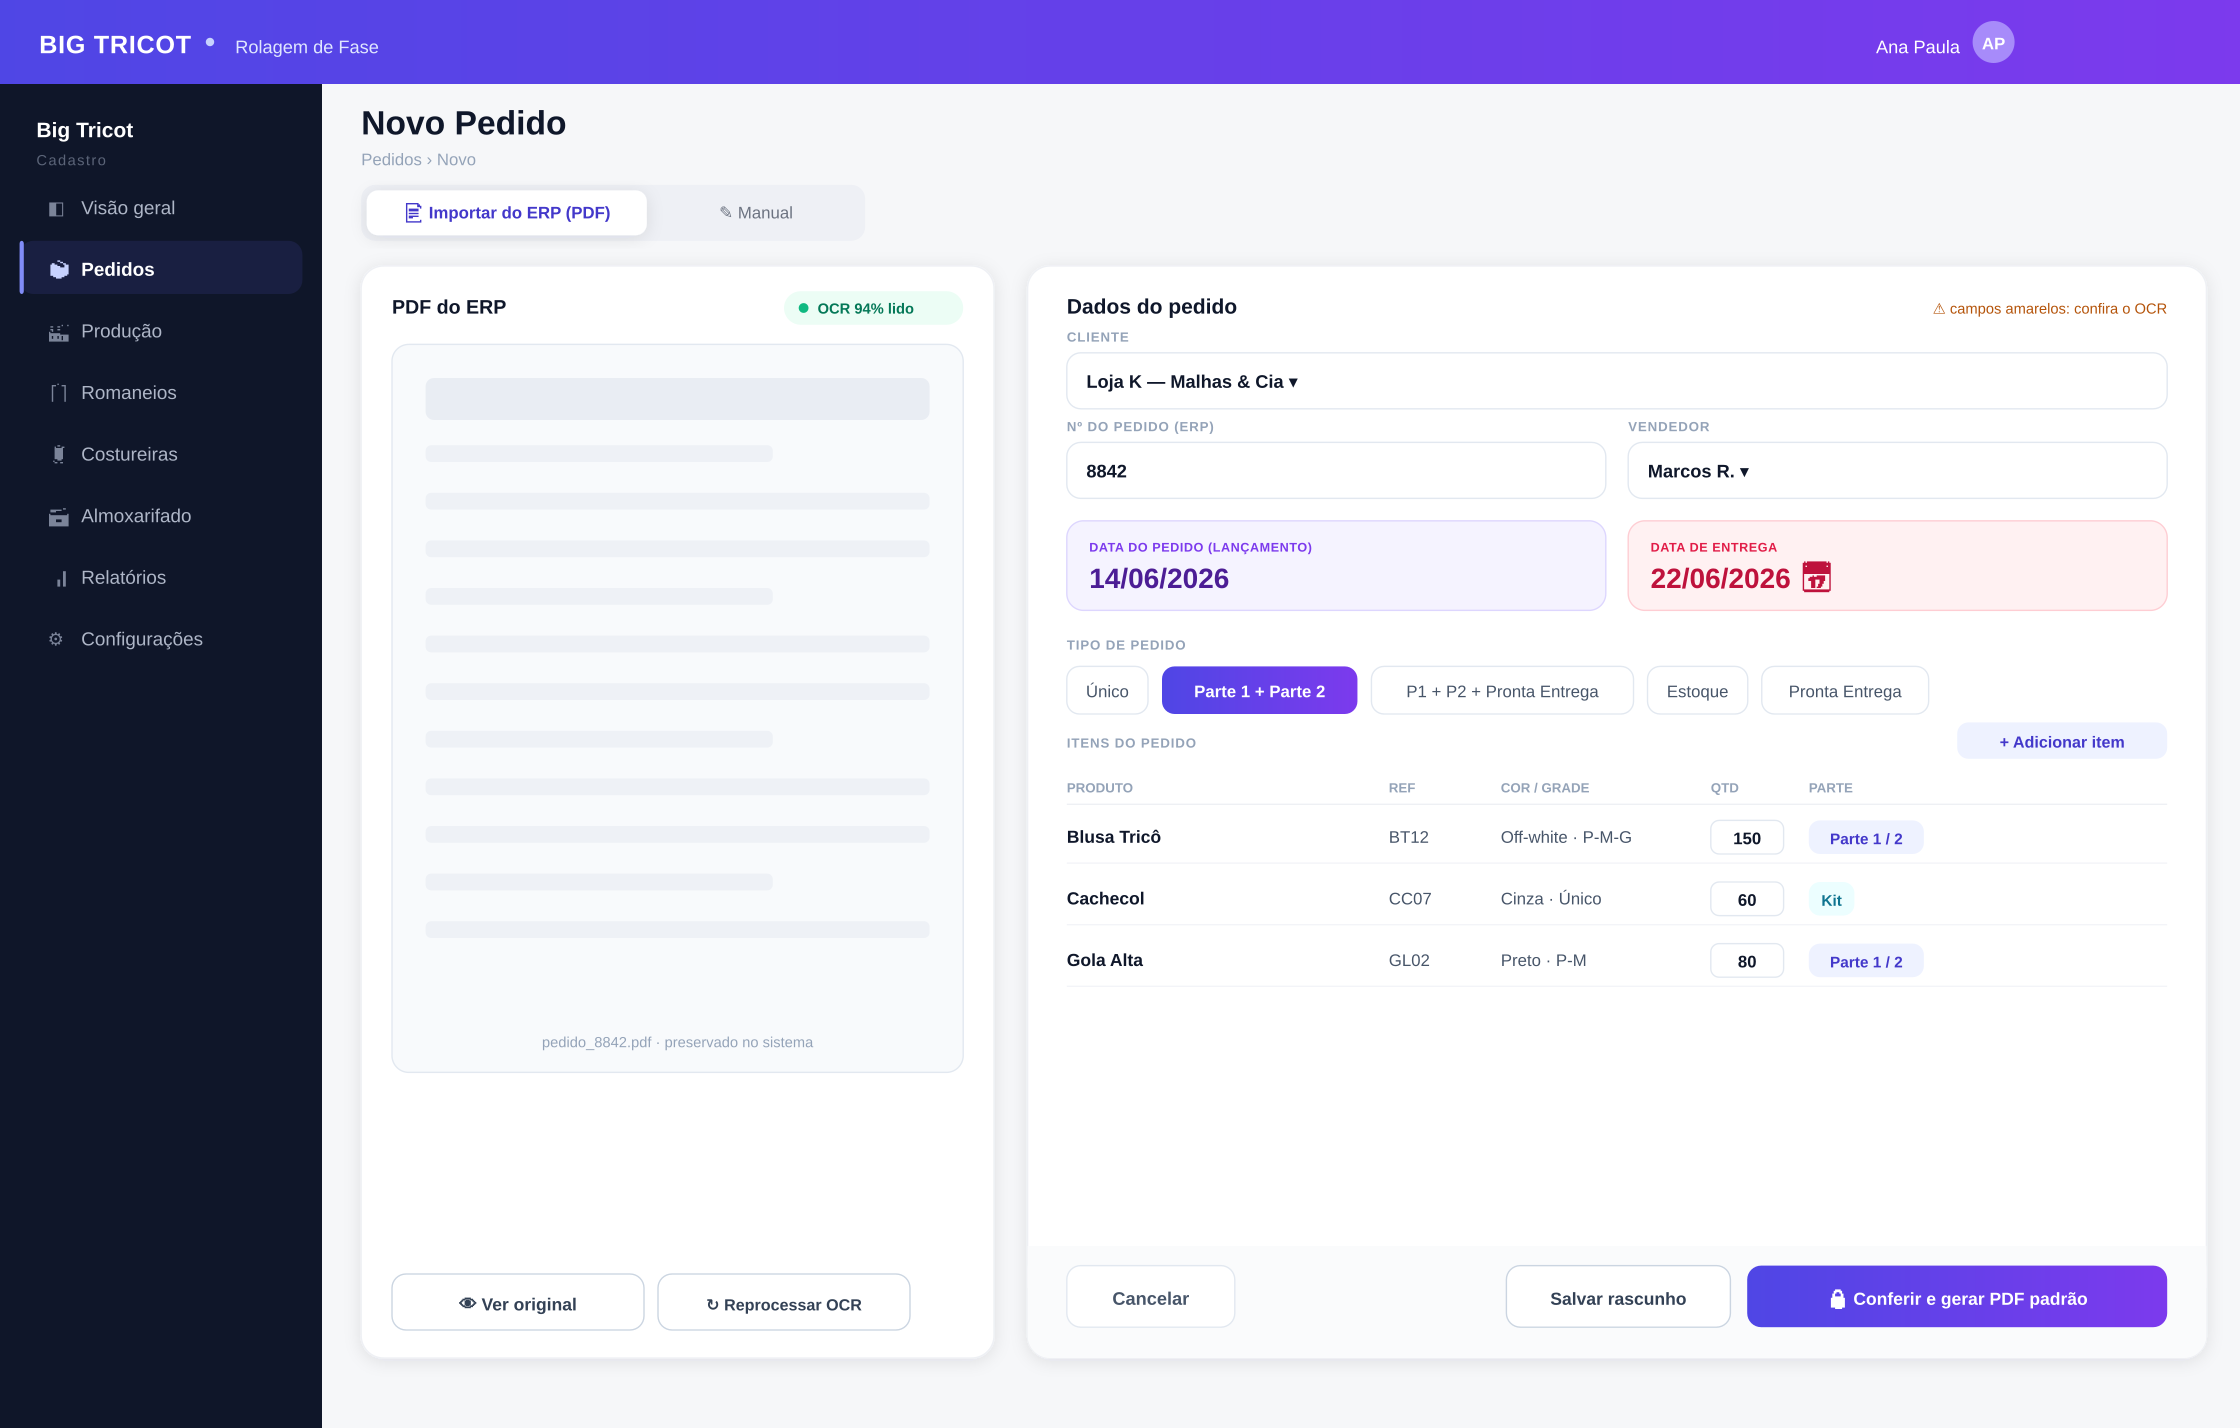
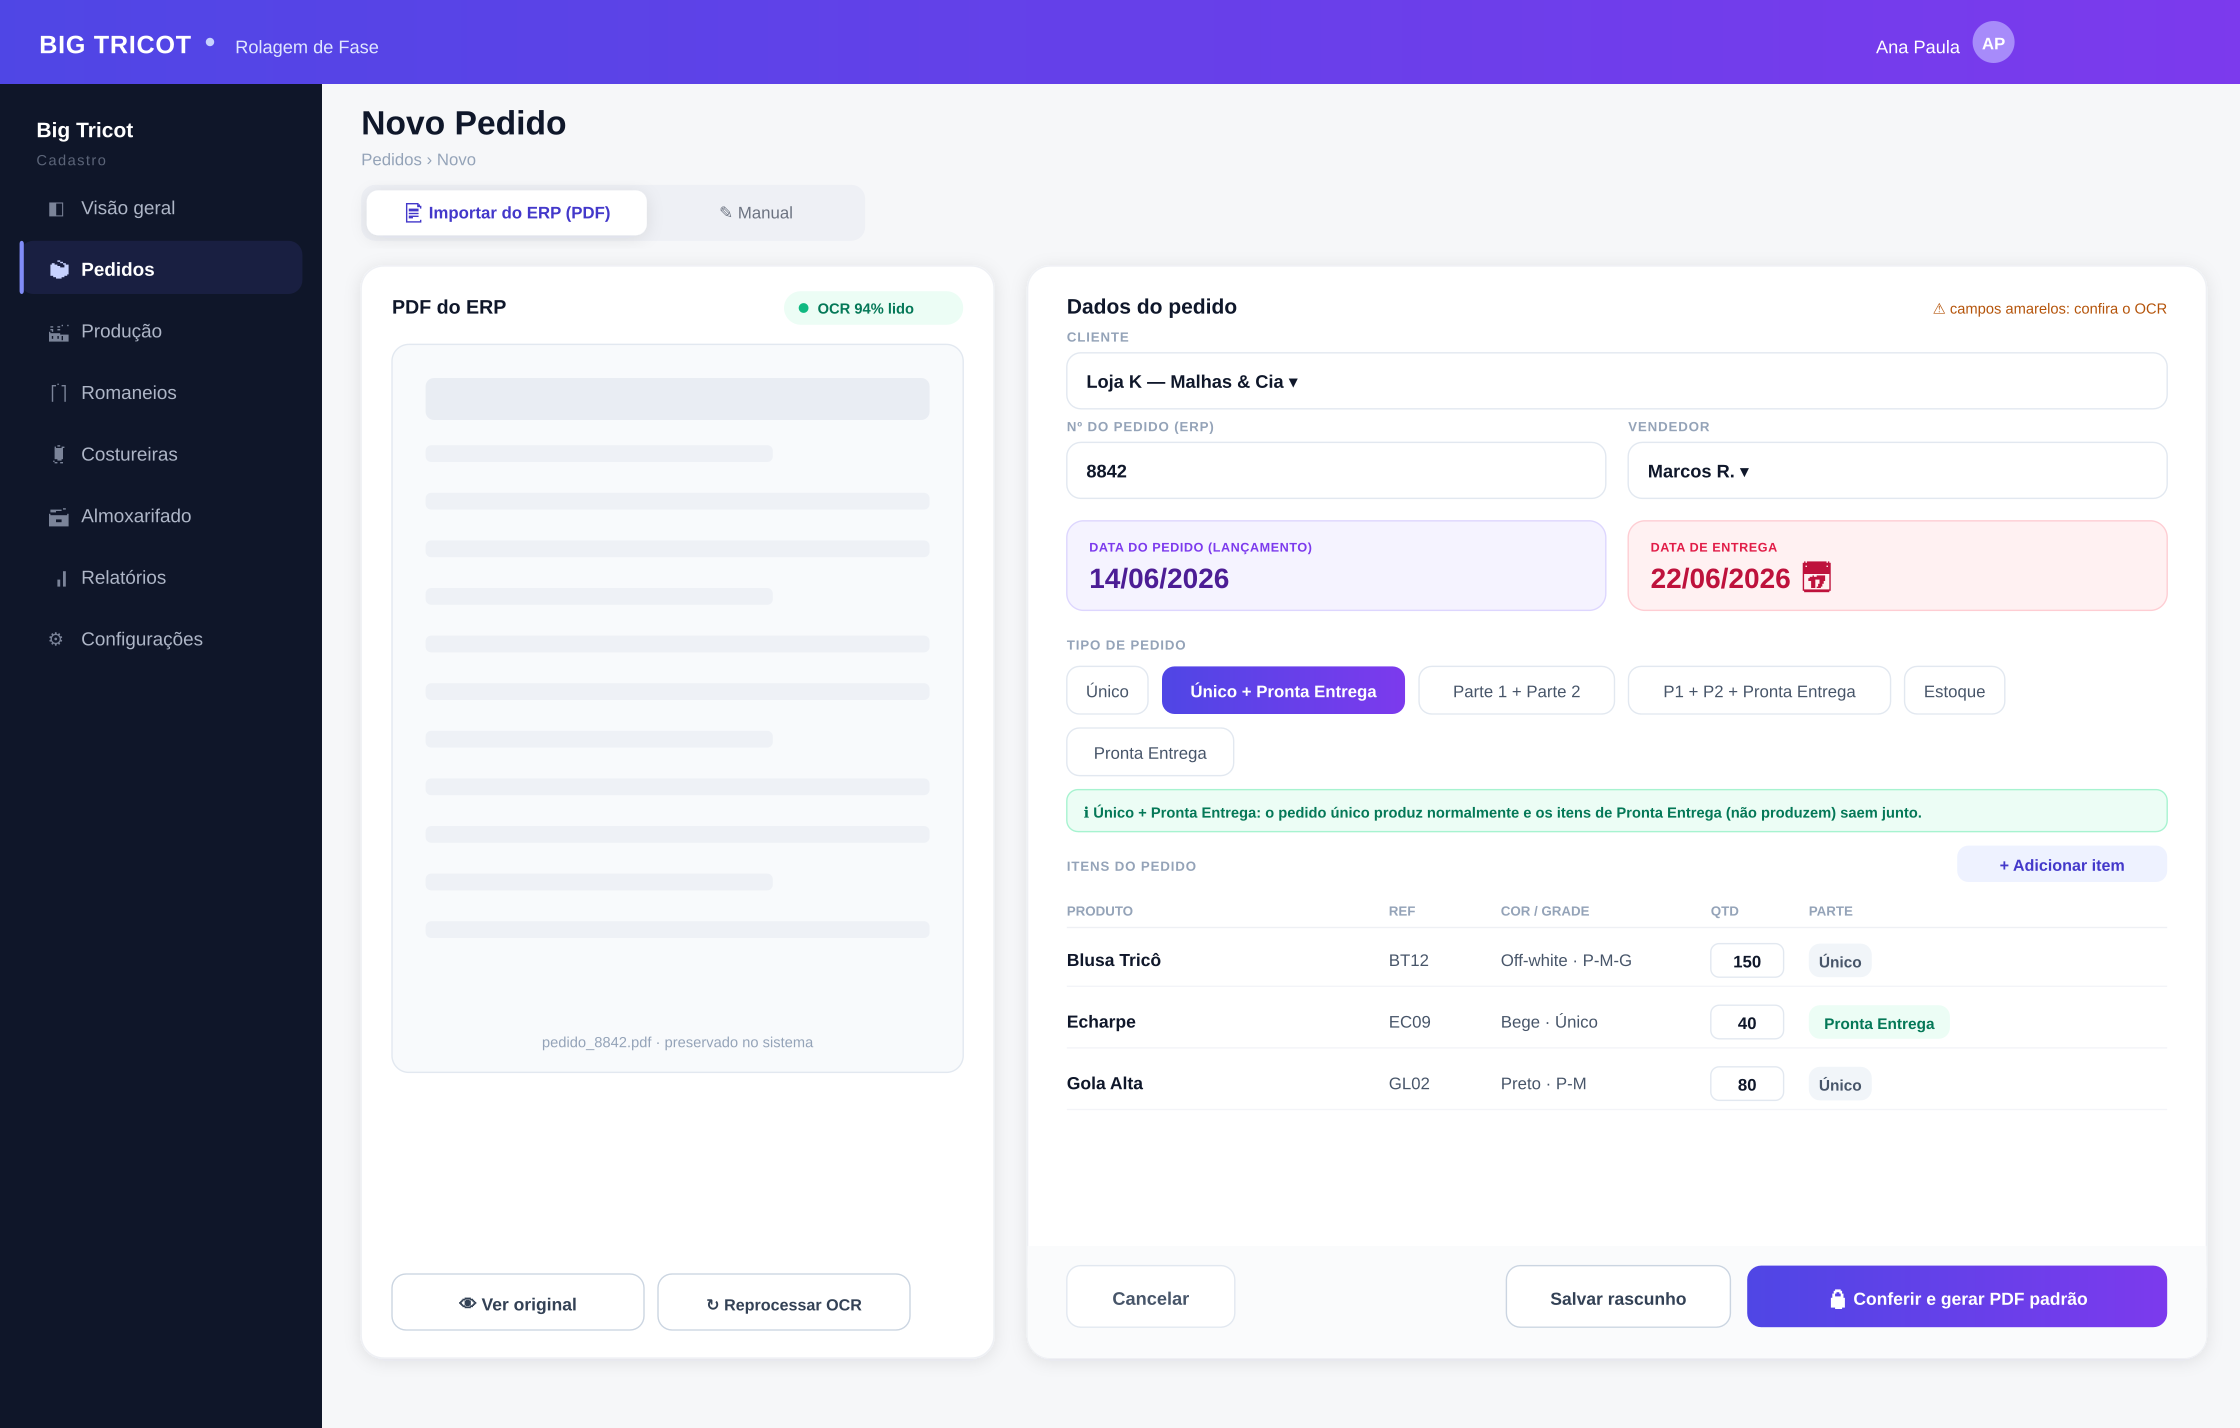
design: adiciona tipo 'Unico + Pronta Entrega' na tela de montar pedido e em Tipos & Destino
Claude-Session: https://claude.ai/code/session_01XdKmwhB2iKVzR9dcT8XvFF

diff --git a/scripts/gen_tipos_destino.py b/scripts/gen_tipos_destino.py
@@ -12,7 +12,7 @@ def text(x,y,s,size=13,fill="#0f172a",weight="normal",anchor="start",ls=None):
     return f'<text x="{x}" y="{y}" font-size="{size}" fill="{fill}" font-weight="{weight}" text-anchor="{anchor}"{extra}>{esc(s)}</text>'
 def circle(cx,cy,r,fill):
     return f'<circle cx="{cx}" cy="{cy}" r="{r}" fill="{fill}"/>'
-GRADS={"uni":("#475569","#64748b"),"pp":("#4338ca","#6366f1"),"est":("#d97706","#f59e0b"),
+GRADS={"uni":("#475569","#64748b"),"upe":("#0d9488","#14b8a6"),"pp":("#4338ca","#6366f1"),"est":("#d97706","#f59e0b"),
        "pej":("#059669","#10b981"),"pes":("#0891b2","#06b6d4"),"brand":("#4f46e5","#7c3aed")}
 def gdefs():
     return "".join(f'<linearGradient id="g_{k}" x1="0" y1="0" x2="0" y2="1"><stop offset="0" stop-color="{a}"/><stop offset="1" stop-color="{b}"/></linearGradient>' for k,(a,b) in GRADS.items())
@@ -27,7 +27,7 @@ def badge(x,y,label,bg,fg,h=26,fs=11.5):
     w=24+len(label)*6.6
     return rect(x,y,w,h,bg,rx=h/2)+text(x+w/2,y+h*0.66,label,fs,fg,weight="bold",anchor="middle"),w
 
-W,H=1500,880
+W,H=1500,1030
 b=rect(0,0,W,60,"url(#g_brand)")
 b+=text(28,38,"BIG TRICOT",18,"#fff",weight="bold",ls="0.5")+circle(150,30,3,"#c7d2fe")+text(168,38,"Rolagem de Fase",13,"#e0e7ff")
 b+=text(W-200,38,"Ana Paula",13,"#fff",anchor="end")+avatar(W-176,30,15,"AP")
@@ -68,6 +68,7 @@ def EST(col): return (f"→ Estoque · «{col}»","#fff7ed","#b45309")
 
 rows=[
  ("uni","Pedido Único","1 PDF","Tecelagem → Passadoria → Corte → Costura → Revisão → Expedição → Transporte",[PROD]),
+ ("upe","Único + Pronta Entrega","2 PDFs","Único produz normalmente · PE (não produz) aguarda e sai JUNTO com o pedido",[PROD,EST("Pronta Entrega + Produção")]),
  ("pp","Pedido Parte 1 e 2","2 PDFs (1 por parte)","Tecelagem → Passadoria → (unem no Corte) → Costura → Revisão → Expedição → Transporte",[PROD]),
  ("est","Pedido Estoque","1 PDF (produção)","Faz TODA a produção (igual Parte 1 e 2) e, no fim, dá entrada no Estoque",[PROD,EST("Dar entrada no estoque")]),
  ("pej","P1 e 2 + Pronta Entrega — ENVIAR JUNTO","3 PDFs","P1/P2 produzem · PE (não produz) aguarda e sai junto com o pedido",[PROD,EST("Pronta Entrega + Produção")]),

diff --git a/scripts/gen_criar_pedido.py b/scripts/gen_criar_pedido.py
@@ -88,7 +88,7 @@ b+=text(ix+half+16+16,dby+48,"22/06/2026  📅",20,"#be123c",weight="bold")
 # tipo de pedido (segmented)
 ty=dby+92
 b+=text(ix,ty,"TIPO DE PEDIDO",9.5,"#94a3b8",weight="bold",ls="0.6")
-opts=[("Único",False),("Parte 1 + Parte 2",True),("P1 + P2 + Pronta Entrega",False),("Estoque",False),("Pronta Entrega",False)]
+opts=[("Único",False),("Único + Pronta Entrega",True),("Parte 1 + Parte 2",False),("P1 + P2 + Pronta Entrega",False),("Estoque",False),("Pronta Entrega",False)]
 ox=ix; oy=ty+12
 for lab,sel in opts:
     ow=24+len(lab)*6.8
@@ -96,6 +96,11 @@ for lab,sel in opts:
     if sel: b+=rect(ox,oy,ow,34,"url(#g_brand)",rx=9)+text(ox+ow/2,oy+22,lab,12,"#fff",weight="bold",anchor="middle")
     else: b+=rect(ox,oy,ow,34,"#ffffff",rx=9,stroke="#e2e8f0")+text(ox+ow/2,oy+22,lab,12,"#475569",anchor="middle")
     ox+=ow+10
+# helper do tipo selecionado
+hny=oy+44
+b+=rect(ix,hny,iw,30,"#ecfdf5",rx=8,stroke="#a7f3d0")
+b+=text(ix+12,hny+20,"ℹ  Único + Pronta Entrega: o pedido único produz normalmente e os itens de Pronta Entrega (não produzem) saem junto.",10.5,"#047857",weight="bold")
+oy=hny
 # itens
 ity=oy+58
 b+=text(ix,ity,"ITENS DO PEDIDO",9.5,"#94a3b8",weight="bold",ls="0.6")
@@ -107,9 +112,9 @@ cx=ix
 for t,w in cols:
     b+=text(cx,thy+14,t,9.5,"#94a3b8",weight="bold"); cx+=w
 b+=rect(ix,thy+22,iw,1,"#eef0f4")
-rows=[("Blusa Tricô","BT12","Off-white · P-M-G","150","Parte 1 / 2","#eef2ff","#4338ca"),
-      ("Cachecol","CC07","Cinza · Único","60","Kit","#ecfeff","#0e7490"),
-      ("Gola Alta","GL02","Preto · P-M","80","Parte 1 / 2","#eef2ff","#4338ca")]
+rows=[("Blusa Tricô","BT12","Off-white · P-M-G","150","Único","#f1f5f9","#475569"),
+      ("Echarpe","EC09","Bege · Único","40","Pronta Entrega","#ecfdf5","#047857"),
+      ("Gola Alta","GL02","Preto · P-M","80","Único","#f1f5f9","#475569")]
 ryy=thy+30
 for prod,ref,cor,qt,parte,pbg,pfg in rows:
     b+=text(ix,ryy+20,prod,12.5,"#0f172a",weight="bold")
